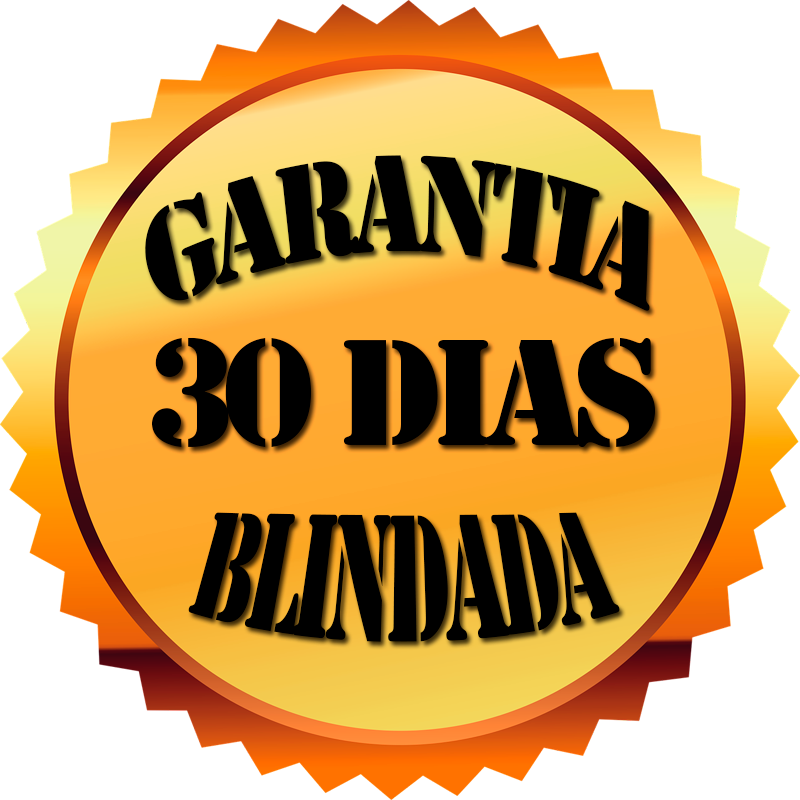
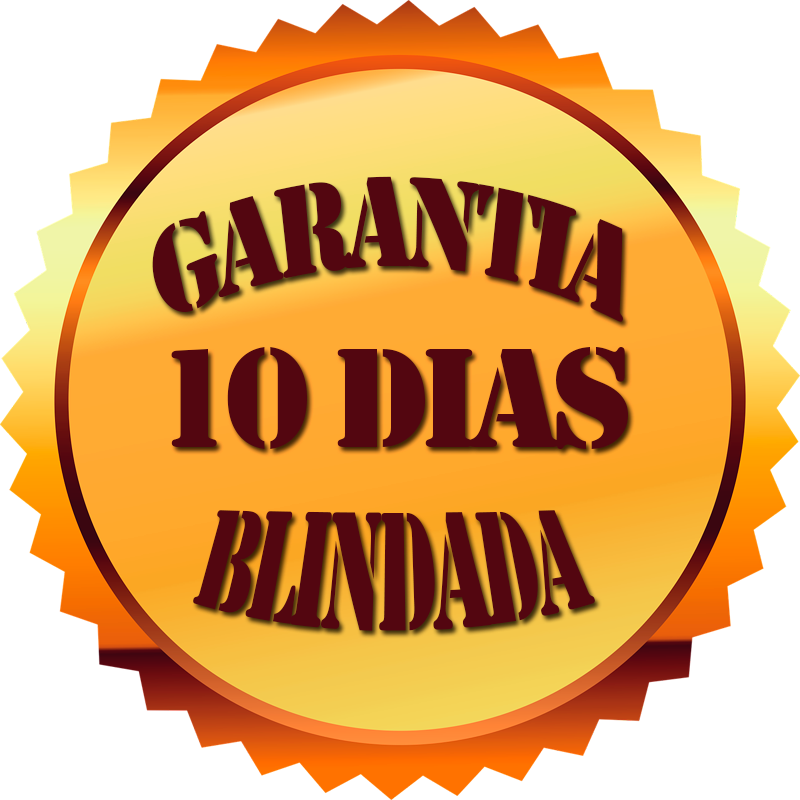
Melhorando copy da Página de Vendas

Changed region(s): [[0.1562, 0.1875, 0.8438, 0.5938], [0.2188, 0.625, 0.7812, 0.8125]]

diff --git a/views/promotions/index.html b/views/promotions/index.html
@@ -29,7 +29,7 @@
                         <h3>Você quer dar um fim à sua angústia e realizar seu casamento da maneira mais rápida e segura durante a pandemia?</h3>
                         -->
 
-                        <h3>Uma Alternativa Incrível Para Se Casar No Momento Atual!</h3>
+                        <h3>Uma Alternativa Incrível Para Aliviar O Seu Estresse No Momento Atual E Se Casar!</h3>
                     </div>
 
                     
@@ -603,7 +603,7 @@
             <div class="col-md-4 col-12 bottom2">
 
                 <div class="img-promotion2 bottom2">
-                    <img src="/res/images/promotions/banner3.jpg" alt="Imagem de um Casal">
+                    <img src="/res/images/promotions/banner8.jpg" alt="Imagem de um Casal">
                 </div>
                 
 
@@ -853,7 +853,7 @@
                     
 
                     <div class="bottom2">
-                        <h4>Uma Alternativa Incrível Para Se Casar No Momento Atual!</h4>
+                        <h4>Uma Alternativa Incrível Para Aliviar O Seu Estresse No Momento Atual E Se Casar!</h4>
                     </div>
 
                     <button type="submit" class="button8">Quero Realizar Meu Casamento!</button>
@@ -1077,7 +1077,7 @@
 
 
 
-            <div class="col-md-4 col-12 vertical-centralizer bottom2">
+            <div class="col-md-4 col-12 vertical-centralizer bottom1">
 
                 <div class="img-promotion bottom2">
                     <img src="/res/images/promotions/banner6.png" alt="Selo de Garantia">
@@ -1093,11 +1093,11 @@
             <div class="col-md-8 col-12 bottom1">
 
                 <div class="bottom1">
-                    <h2>Garantia Blindada 30 Dias</h2>
+                    <h2>Garantia Blindada 10 Dias</h2>
                 </div>
 
                 <div class="bottom1">
-                    <h3>Sua Compra do Casamento Pocket está 100% Coberto Por Uma Garantia Total De 30 Dias!</h3>
+                    <h3>Sua Compra do Casamento Pocket está 100% Coberto Por Uma Garantia Total De 10 Dias!</h3>
                 </div>
 
                 <div class="bottom1">

diff --git a/views-cache/index.17a9b585efa638d2aac24d83725a1f58.rtpl.php b/views-cache/index.17a9b585efa638d2aac24d83725a1f58.rtpl.php
@@ -29,7 +29,7 @@
                         <h3>Você quer dar um fim à sua angústia e realizar seu casamento da maneira mais rápida e segura durante a pandemia?</h3>
                         -->
 
-                        <h3>Uma Alternativa Incrível Para Se Casar No Momento Atual!</h3>
+                        <h3>Uma Alternativa Incrível Para Aliviar O Seu Estresse No Momento Atual E Se Casar!</h3>
                     </div>
 
                     
@@ -603,7 +603,7 @@
             <div class="col-md-4 col-12 bottom2">
 
                 <div class="img-promotion2 bottom2">
-                    <img src="/res/images/promotions/banner3.jpg" alt="Imagem de um Casal">
+                    <img src="/res/images/promotions/banner8.jpg" alt="Imagem de um Casal">
                 </div>
                 
 
@@ -853,7 +853,7 @@
                     
 
                     <div class="bottom2">
-                        <h4>Uma Alternativa Incrível Para Se Casar No Momento Atual!</h4>
+                        <h4>Uma Alternativa Incrível Para Aliviar O Seu Estresse No Momento Atual E Se Casar!</h4>
                     </div>
 
                     <button type="submit" class="button8">Quero Realizar Meu Casamento!</button>
@@ -1077,7 +1077,7 @@
 
 
 
-            <div class="col-md-4 col-12 vertical-centralizer bottom2">
+            <div class="col-md-4 col-12 vertical-centralizer bottom1">
 
                 <div class="img-promotion bottom2">
                     <img src="/res/images/promotions/banner6.png" alt="Selo de Garantia">
@@ -1093,11 +1093,11 @@
             <div class="col-md-8 col-12 bottom1">
 
                 <div class="bottom1">
-                    <h2>Garantia Blindada 30 Dias</h2>
+                    <h2>Garantia Blindada 10 Dias</h2>
                 </div>
 
                 <div class="bottom1">
-                    <h3>Sua Compra do Casamento Pocket está 100% Coberto Por Uma Garantia Total De 30 Dias!</h3>
+                    <h3>Sua Compra do Casamento Pocket está 100% Coberto Por Uma Garantia Total De 10 Dias!</h3>
                 </div>
 
                 <div class="bottom1">
